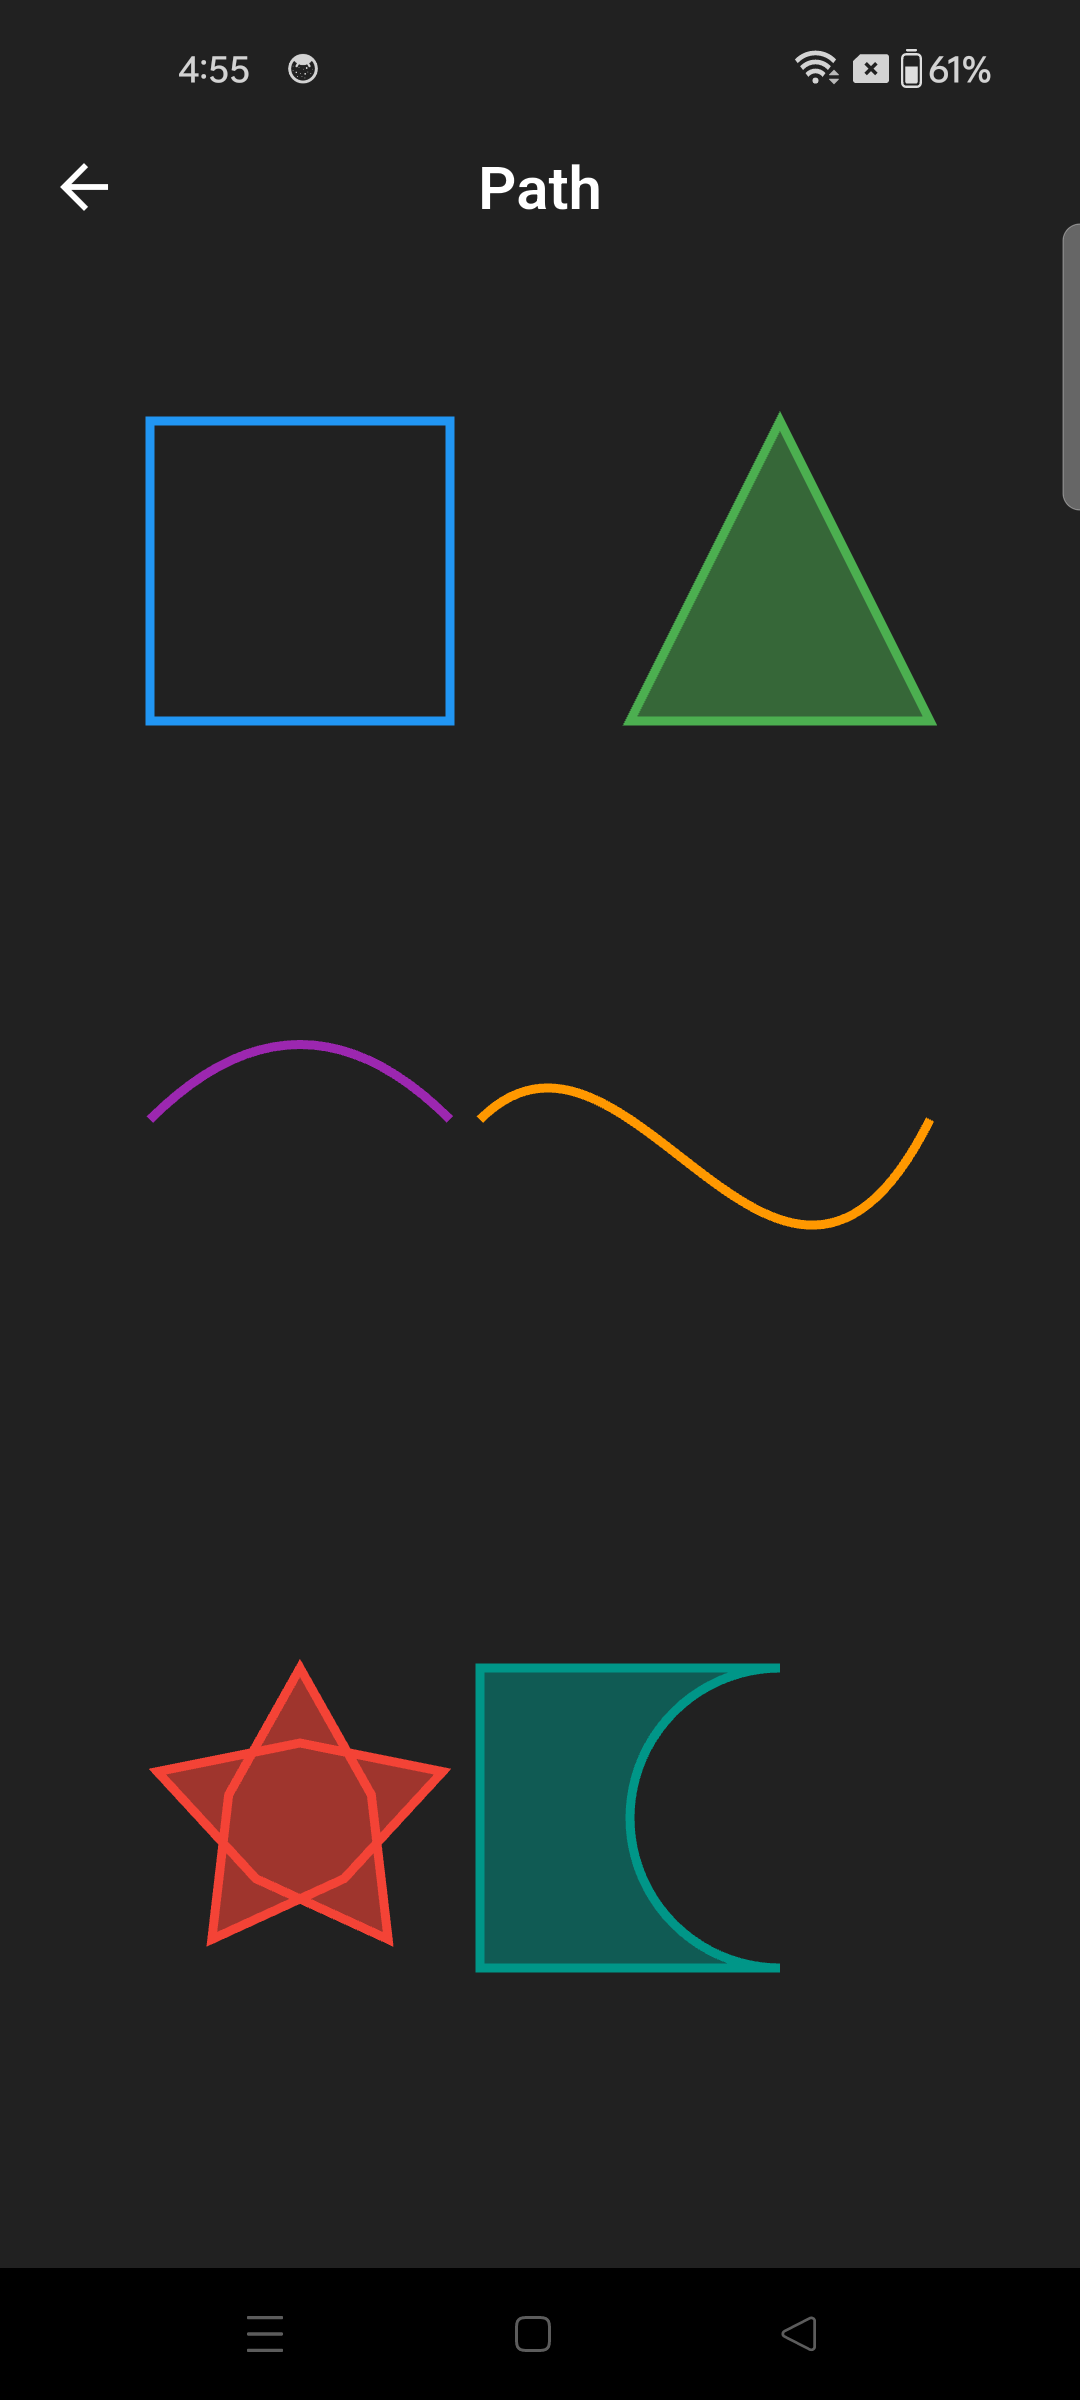
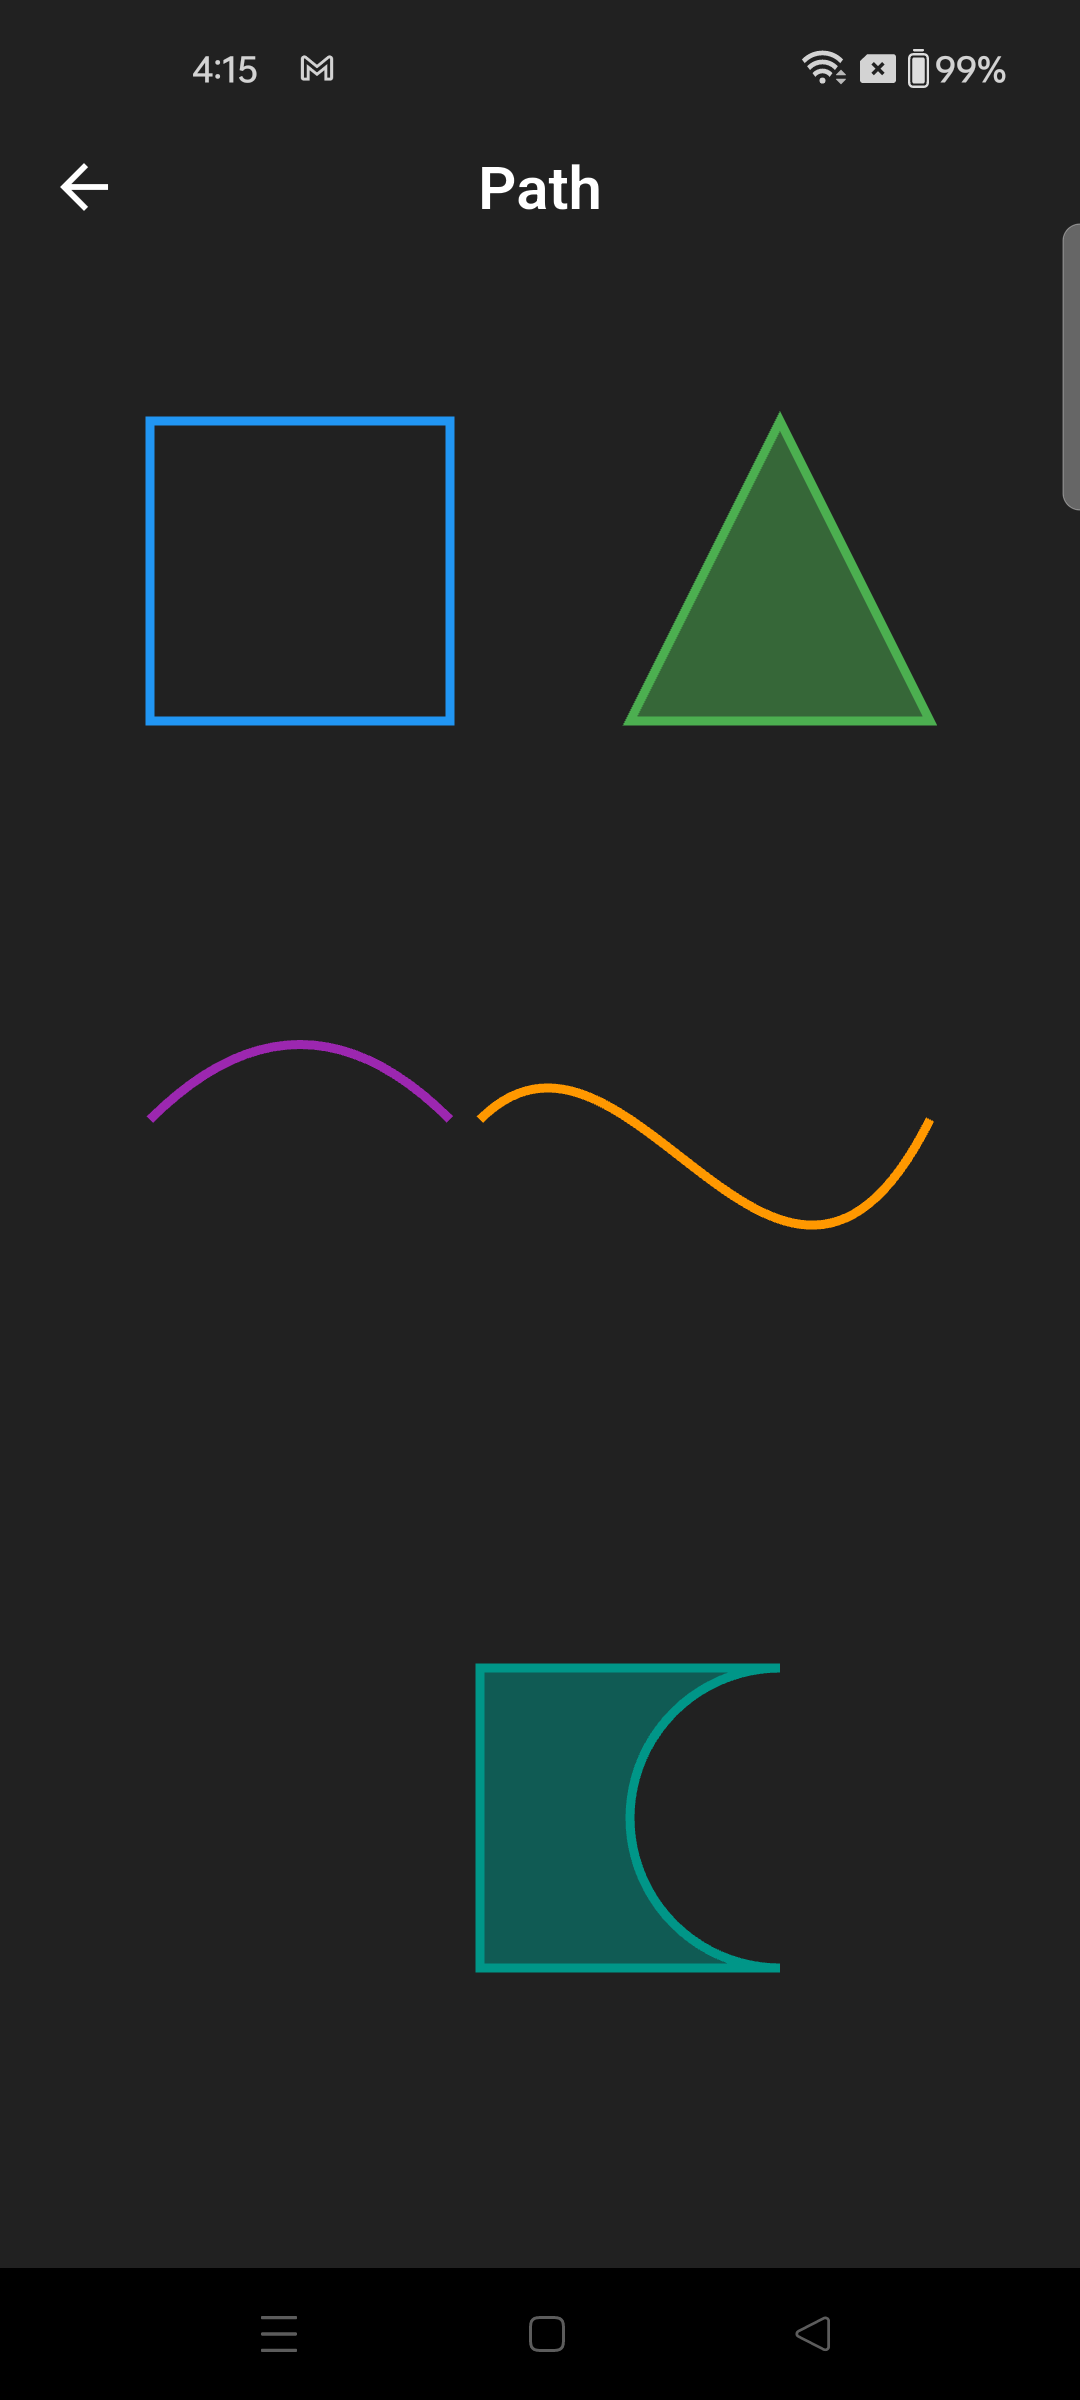
Update binary assets and refine complex shapes documentation
- Updated binary files: `.DS_Store`, `path.png`, and `points.png`.
- Revised comments and examples in `complex-shapes.html` to improve clarity and consistency in the drawing methods, including adjustments to the path numbering and enhanced explanations for the `drawPoints` method.

diff --git a/basics/complex-shapes.html b/basics/complex-shapes.html
@@ -486,31 +486,7 @@ void paint(Canvas canvas, Size size) {<br>
 &nbsp;&nbsp;&nbsp;&nbsp;);<br>
 &nbsp;&nbsp;canvas.drawPath(path4, strokePaint..color = Colors.orange);<br>
 <br>
-&nbsp;&nbsp;// 5⃣ Path - Bottom Left (Red) - Star shape<br>
-&nbsp;&nbsp;final centerX = 100.0;<br>
-&nbsp;&nbsp;final centerY = size.height - 150.0;<br>
-&nbsp;&nbsp;final outerRadius = 50.0;<br>
-&nbsp;&nbsp;final innerRadius = 25.0;<br>
-&nbsp;&nbsp;final path5 = Path();<br>
-&nbsp;&nbsp;for (int i = 0; i < 5; i++) {<br>
-&nbsp;&nbsp;&nbsp;&nbsp;final angle = (i * 4 * math.pi / 5) - math.pi / 2;<br>
-&nbsp;&nbsp;&nbsp;&nbsp;final x = centerX + outerRadius * math.cos(angle);<br>
-&nbsp;&nbsp;&nbsp;&nbsp;final y = centerY + outerRadius * math.sin(angle);<br>
-&nbsp;&nbsp;&nbsp;&nbsp;if (i == 0) {<br>
-&nbsp;&nbsp;&nbsp;&nbsp;&nbsp;&nbsp;path5.moveTo(x, y);<br>
-&nbsp;&nbsp;&nbsp;&nbsp;} else {<br>
-&nbsp;&nbsp;&nbsp;&nbsp;&nbsp;&nbsp;path5.lineTo(x, y);<br>
-&nbsp;&nbsp;&nbsp;&nbsp;}<br>
-&nbsp;&nbsp;&nbsp;&nbsp;final innerAngle = angle + 2 * math.pi / 5;<br>
-&nbsp;&nbsp;&nbsp;&nbsp;final innerX = centerX + innerRadius * math.cos(innerAngle);<br>
-&nbsp;&nbsp;&nbsp;&nbsp;final innerY = centerY + innerRadius * math.sin(innerAngle);<br>
-&nbsp;&nbsp;&nbsp;&nbsp;path5.lineTo(innerX, innerY);<br>
-&nbsp;&nbsp;}<br>
-&nbsp;&nbsp;path5.close();<br>
-&nbsp;&nbsp;canvas.drawPath(path5, fillPaint..color = Colors.red.withValues(alpha: 0.6));<br>
-&nbsp;&nbsp;canvas.drawPath(path5, strokePaint..color = Colors.red);<br>
-<br>
-&nbsp;&nbsp;// 6⃣ Path - Bottom Right (Teal) - Complex path with arc<br>
+&nbsp;&nbsp;// 5⃣ Path - Bottom Right (Teal) - Complex path with arc<br>
 &nbsp;&nbsp;final path6 = Path()<br>
 &nbsp;&nbsp;&nbsp;&nbsp;..moveTo(size.width - 200, size.height - 200)<br>
 &nbsp;&nbsp;&nbsp;&nbsp;..lineTo(size.width - 100, size.height - 200)<br>
@@ -534,191 +510,150 @@ void paint(Canvas canvas, Size size) {<br>
             </div>
 
             <h3><code>drawPoints(PointMode pointMode, List&lt;Offset&gt; points, Paint paint)</code></h3>
-            <p><strong>Purpose:</strong> Efficiently draws multiple points, lines, or polygons in one call.</p>
-            <p><strong>Parameters:</strong></p>
-            <ul>
-                <li><code>pointMode</code> - How to interpret points:
-                    <ul>
-                        <li><code>PointMode.points</code> - Draw individual points (dots)</li>
-                        <li><code>PointMode.lines</code> - Draw lines between consecutive points</li>
-                        <li><code>PointMode.polygon</code> - Draw a closed polygon</li>
-                    </ul>
-                </li>
-                <li><code>points</code> - List of points to draw</li>
-                <li><code>paint</code> - Paint object defining point/line style</li>
-            </ul>
-            <p><strong>Common uses:</strong> Scatter plots, line charts, polygons, particle effects, efficient batch
-                drawing.</p>
 
+            <p>
+                <strong>Canvas.drawPoints</strong> is used to draw <strong>multiple point-based shapes efficiently in a
+                    single draw
+                    call</strong>.
+                Instead of drawing each dot or line segment individually, Flutter batches them together, making this
+                method ideal
+                for markers, graphs, paths, and visual indicators.
+            </p>
+
+            <div class="code-block">
+                <code>
+            canvas.drawPoints(PointMode pointMode, List&lt;Offset&gt; points, Paint paint);
+                </code>
+            </div>
+
+            <h4>What each parameter means</h4>
+
+            <h4>1⃣ <code>PointMode pointMode</code></h4>
+            <p>
+                Defines <strong>how Flutter should interpret the list of points</strong>.
+            </p>
+
+            <table>
+                <thead>
+                    <tr>
+                        <th>Mode</th>
+                        <th>Meaning</th>
+                    </tr>
+                </thead>
+                <tbody>
+                    <tr>
+                        <td><code>PointMode.points</code></td>
+                        <td>Draws each <code>Offset</code> as an individual dot</td>
+                    </tr>
+                    <tr>
+                        <td><code>PointMode.lines</code></td>
+                        <td>Draws independent line segments using pairs of points</td>
+                    </tr>
+                    <tr>
+                        <td><code>PointMode.polygon</code></td>
+                        <td>Draws a connected polyline through all points</td>
+                    </tr>
+                </tbody>
+            </table>
+
+            <p><strong>Important behavior:</strong></p>
+            <ul>
+                <li><code>PointMode.points</code> → every offset is rendered as a dot</li>
+                <li><code>PointMode.lines</code> → every <strong>two offsets</strong> form one line segment</li>
+                <li><code>PointMode.polygon</code> → all offsets are connected in sequence</li>
+            </ul>
+
+            <h4>2⃣ <code>List&lt;Offset&gt; points</code></h4>
+            <p>
+                A list of coordinates in <strong>canvas space</strong>.
+                How these points are rendered depends entirely on the selected <code>PointMode</code>.
+            </p>
+
+            <h4>3⃣ <code>Paint paint</code></h4>
+            <p>
+                Controls the visual appearance of the points or lines.
+            </p>
+
+            <div class="info-box">
+                <strong>⚠ Important:</strong>
+                <code>PaintingStyle.stroke</code> is required.
+                <code>PaintingStyle.fill</code> is ignored by <code>drawPoints</code>.
+            </div>
+
+            <h4>📌 Example</h4>
             <div class="property-layout">
                 <div class="property-code">
                     <div class="code-block">
-                        <button class="copy-button" onclick="copyCode(this)" title="Copy code">
-                            <span class="copy-text">Copy</span>
-                        </button>
                         <code>
-@override<br>
-void paint(Canvas canvas, Size size) {<br>
-&nbsp;&nbsp;final paint = Paint()<br>
-&nbsp;&nbsp;&nbsp;&nbsp;..strokeWidth = 4<br>
-&nbsp;&nbsp;&nbsp;&nbsp;..strokeCap = StrokeCap.round;<br>
-<br>
-&nbsp;&nbsp;// 1⃣ Points - Top Left (Blue) - PointMode.points - Individual points<br>
-&nbsp;&nbsp;final points1 = [<br>
-&nbsp;&nbsp;&nbsp;&nbsp;const Offset(50, 50),<br>
-&nbsp;&nbsp;&nbsp;&nbsp;const Offset(100, 50),<br>
-&nbsp;&nbsp;&nbsp;&nbsp;const Offset(150, 50),<br>
-&nbsp;&nbsp;&nbsp;&nbsp;const Offset(100, 100),<br>
-&nbsp;&nbsp;&nbsp;&nbsp;const Offset(50, 100),<br>
-&nbsp;&nbsp;&nbsp;&nbsp;const Offset(150, 100),<br>
-&nbsp;&nbsp;];<br>
-&nbsp;&nbsp;canvas.drawPoints(ui.PointMode.points, points1, paint..color = Colors.blue);<br>
-<br>
-&nbsp;&nbsp;// 2⃣ Points - Top Right (Green) - PointMode.lines - Connected lines<br>
-&nbsp;&nbsp;final points2 = [<br>
-&nbsp;&nbsp;&nbsp;&nbsp;Offset(size.width - 200, 50),<br>
-&nbsp;&nbsp;&nbsp;&nbsp;Offset(size.width - 150, 100),<br>
-&nbsp;&nbsp;&nbsp;&nbsp;Offset(size.width - 100, 50),<br>
-&nbsp;&nbsp;&nbsp;&nbsp;Offset(size.width - 50, 100),<br>
-&nbsp;&nbsp;];<br>
-&nbsp;&nbsp;canvas.drawPoints(ui.PointMode.lines, points2, paint..color = Colors.green);<br>
-<br>
-&nbsp;&nbsp;// 3⃣ Points - Center Left (Purple) - PointMode.polygon - Closed polygon<br>
-&nbsp;&nbsp;final points3 = [<br>
-&nbsp;&nbsp;&nbsp;&nbsp;Offset(50, size.height / 2 - 60),<br>
-&nbsp;&nbsp;&nbsp;&nbsp;Offset(100, size.height / 2 - 100),<br>
-&nbsp;&nbsp;&nbsp;&nbsp;Offset(150, size.height / 2 - 60),<br>
-&nbsp;&nbsp;&nbsp;&nbsp;Offset(150, size.height / 2 + 40),<br>
-&nbsp;&nbsp;&nbsp;&nbsp;Offset(50, size.height / 2 + 40),<br>
-&nbsp;&nbsp;];<br>
-&nbsp;&nbsp;canvas.drawPoints(ui.PointMode.polygon, points3, paint..color = Colors.purple);<br>
-<br>
-&nbsp;&nbsp;// 4⃣ Points - Center Right (Orange) - PointMode.points with different sizes<br>
-&nbsp;&nbsp;final centerX = size.width - 125.0;<br>
-&nbsp;&nbsp;final centerY = size.height / 2;<br>
-&nbsp;&nbsp;final points4 = &lt;Offset&gt;[];<br>
-&nbsp;&nbsp;for (int i = 0; i &lt; 8; i++) {<br>
-&nbsp;&nbsp;&nbsp;&nbsp;final angle = (i * 2 * math.pi / 8) - math.pi / 2;<br>
-&nbsp;&nbsp;&nbsp;&nbsp;final radius = 40.0;<br>
-&nbsp;&nbsp;&nbsp;&nbsp;points4.add(Offset(centerX + radius * math.cos(angle), centerY + radius * math.sin(angle)));<br>
-&nbsp;&nbsp;}<br>
-&nbsp;&nbsp;canvas.drawPoints(ui.PointMode.points, points4, paint..color = Colors.orange);<br>
-<br>
-&nbsp;&nbsp;// 5⃣ Points - Bottom Left (Red) - PointMode.lines creating a wave<br>
-&nbsp;&nbsp;final points5 = &lt;Offset&gt;[];<br>
-&nbsp;&nbsp;final startX = 50.0;<br>
-&nbsp;&nbsp;final startY = size.height - 150.0;<br>
-&nbsp;&nbsp;for (int i = 0; i &lt;= 20; i++) {<br>
-&nbsp;&nbsp;&nbsp;&nbsp;final x = startX + (i * 6.0);<br>
-&nbsp;&nbsp;&nbsp;&nbsp;final y = startY + 30 * math.sin(i * 0.5);<br>
-&nbsp;&nbsp;&nbsp;&nbsp;points5.add(Offset(x, y));<br>
-&nbsp;&nbsp;}<br>
-&nbsp;&nbsp;canvas.drawPoints(ui.PointMode.lines, points5, paint..color = Colors.red);<br>
-<br>
-&nbsp;&nbsp;// 6⃣ Points - Bottom Right (Teal) - PointMode.polygon creating a star<br>
-&nbsp;&nbsp;final centerX2 = size.width - 125.0;<br>
-&nbsp;&nbsp;final centerY2 = size.height - 150.0;<br>
-&nbsp;&nbsp;final outerRadius = 50.0;<br>
-&nbsp;&nbsp;final innerRadius = 25.0;<br>
-&nbsp;&nbsp;final points6 = &lt;Offset&gt;[];<br>
-&nbsp;&nbsp;for (int i = 0; i &lt; 10; i++) {<br>
-&nbsp;&nbsp;&nbsp;&nbsp;final angle = (i * math.pi / 5) - math.pi / 2;<br>
-&nbsp;&nbsp;&nbsp;&nbsp;final radius = i.isEven ? outerRadius : innerRadius;<br>
-&nbsp;&nbsp;&nbsp;&nbsp;points6.add(Offset(centerX2 + radius * math.cos(angle), centerY2 + radius * math.sin(angle)));<br>
-&nbsp;&nbsp;}<br>
-&nbsp;&nbsp;canvas.drawPoints(ui.PointMode.polygon, points6, paint..color = Colors.teal);<br>
-}<br>
-                        </code>
+            @override<br>
+            void paint(Canvas canvas, Size size) {<br>
+            &nbsp;&nbsp;// 🔴 POINTS MODE (individual dots)<br>
+            &nbsp;&nbsp;final pointPaint = Paint()<br>
+            &nbsp;&nbsp;&nbsp;&nbsp;..color = Colors.red<br>
+            &nbsp;&nbsp;&nbsp;&nbsp;..strokeWidth = 10<br>
+            &nbsp;&nbsp;&nbsp;&nbsp;..strokeCap = StrokeCap.round<br>
+            &nbsp;&nbsp;&nbsp;&nbsp;..style = PaintingStyle.stroke;<br>
+            <br>
+            &nbsp;&nbsp;final dotPoints = [<br>
+            &nbsp;&nbsp;&nbsp;&nbsp;const Offset(60, 60),<br>
+            &nbsp;&nbsp;&nbsp;&nbsp;const Offset(100, 80),<br>
+            &nbsp;&nbsp;&nbsp;&nbsp;const Offset(140, 60),<br>
+            &nbsp;&nbsp;&nbsp;&nbsp;const Offset(180, 90),<br>
+            &nbsp;&nbsp;];<br>
+            <br>
+            &nbsp;&nbsp;canvas.drawPoints(ui.PointMode.points, dotPoints, pointPaint);<br>
+            <br>
+            &nbsp;&nbsp;// 🔵 LINES MODE (independent segments)<br>
+            &nbsp;&nbsp;final linePaint = Paint()<br>
+            &nbsp;&nbsp;&nbsp;&nbsp;..color = Colors.blue<br>
+            &nbsp;&nbsp;&nbsp;&nbsp;..strokeWidth = 4<br>
+            &nbsp;&nbsp;&nbsp;&nbsp;..style = PaintingStyle.stroke;<br>
+            <br>
+            &nbsp;&nbsp;final linePoints = [<br>
+            &nbsp;&nbsp;&nbsp;&nbsp;const Offset(40, 150),<br>
+            &nbsp;&nbsp;&nbsp;&nbsp;const Offset(120, 150),<br>
+            <br>
+            &nbsp;&nbsp;&nbsp;&nbsp;const Offset(160, 130),<br>
+            &nbsp;&nbsp;&nbsp;&nbsp;const Offset(220, 180),<br>
+            &nbsp;&nbsp;];<br>
+            <br>
+            &nbsp;&nbsp;canvas.drawPoints(ui.PointMode.lines, linePoints, linePaint);<br>
+            <br>
+            &nbsp;&nbsp;// 🟢 POLYGON MODE (connected polyline)<br>
+            &nbsp;&nbsp;final polygonPaint = Paint()<br>
+            &nbsp;&nbsp;&nbsp;&nbsp;..color = Colors.green<br>
+            &nbsp;&nbsp;&nbsp;&nbsp;..strokeWidth = 3<br>
+            &nbsp;&nbsp;&nbsp;&nbsp;..style = PaintingStyle.stroke;<br>
+            <br>
+            &nbsp;&nbsp;final polygonPoints = [<br>
+            &nbsp;&nbsp;&nbsp;&nbsp;Offset(80, 260),<br>
+            &nbsp;&nbsp;&nbsp;&nbsp;Offset(140, 230),<br>
+            &nbsp;&nbsp;&nbsp;&nbsp;Offset(200, 260),<br>
+            &nbsp;&nbsp;&nbsp;&nbsp;Offset(170, 300),<br>
+            &nbsp;&nbsp;&nbsp;&nbsp;Offset(110, 300),<br>
+            &nbsp;&nbsp;];<br>
+            <br>
+            &nbsp;&nbsp;canvas.drawPoints(ui.PointMode.polygon, polygonPoints, polygonPaint);<br>
+            }<br>
+                </code>
+
                     </div>
                 </div>
-
                 <div class="property-image">
-                    <img src="../assets/points.png" alt="Flutter Canvas drawPoints visual example">
-                    <p class="image-caption">Visual guide showing how <code>drawPoints()</code> draws points, lines, and
-                        polygons based on PointMode. Examples include individual points (blue grid, orange circle),
-                        connected lines (green segments, red wave), and closed polygons (purple house, teal star).</p>
+                    <img src="../assets/points.png" alt="Flutter Canvas drawPath visual example">
+                    <p class="image-caption">Visual guide showing how <code>drawPath()</code> draws custom shapes
+                        defined by Path objects. Examples include simple polygons (blue square), filled shapes
+                        (green
+                        triangle), curves (purple quadratic, orange cubic), complex shapes (red star), and paths
+                        with
+                        arcs (teal).</p>
                 </div>
             </div>
+
         </section>
 
         <section class="section">
             <h2>🖼 Other Drawing Methods</h2>
-
-            <h3><code>drawImageRect(Image image, Rect src, Rect dst, Paint paint)</code></h3>
-            <p><strong>Purpose:</strong> Draws a portion of an image (defined by source rectangle) scaled to fit a
-                destination rectangle on the canvas.</p>
-            <p><strong>Parameters:</strong></p>
-            <ul>
-                <li><code>image</code> - The Image object to draw (loaded from assets, network, or memory)</li>
-                <li><code>src</code> - Source rectangle defining which portion of the image to draw (in image
-                    coordinates)</li>
-                <li><code>dst</code> - Destination rectangle defining where and how large to draw the image (in canvas
-                    coordinates)</li>
-                <li><code>paint</code> - Paint object (optional, can be null) for color filtering or blending</li>
-            </ul>
-            <p><strong>Common uses:</strong> Scaling images, cropping images, fitting images while maintaining aspect
-                ratio, displaying sprites from sprite sheets.</p>
-
-            <div class="code-block">
-                <button class="copy-button" onclick="copyCode(this)" title="Copy code">
-                    <span class="copy-text">Copy</span>
-                </button>
-                <code>
-final ui.Image image;<br>
-<br>
-ImageCP(this.image);<br>
-<br>
-@override<br>
-void paint(Canvas canvas, Size size) {<br>
-&nbsp;&nbsp;final paint = Paint();<br>
-<br>
-&nbsp;&nbsp;// Calculate aspect ratios<br>
-&nbsp;&nbsp;final imageAspectRatio = image.width / image.height;<br>
-&nbsp;&nbsp;final canvasAspectRatio = size.width / size.height;<br>
-<br>
-&nbsp;&nbsp;// Calculate destination rectangle to fit image while maintaining aspect ratio<br>
-&nbsp;&nbsp;double dstWidth, dstHeight;<br>
-&nbsp;&nbsp;double dstX, dstY;<br>
-<br>
-&nbsp;&nbsp;if (imageAspectRatio &gt; canvasAspectRatio) {<br>
-&nbsp;&nbsp;&nbsp;&nbsp;// Image is wider - fit to width<br>
-&nbsp;&nbsp;&nbsp;&nbsp;dstWidth = size.width;<br>
-&nbsp;&nbsp;&nbsp;&nbsp;dstHeight = size.width / imageAspectRatio;<br>
-&nbsp;&nbsp;&nbsp;&nbsp;dstX = 0;<br>
-&nbsp;&nbsp;&nbsp;&nbsp;dstY = (size.height - dstHeight) / 2;<br>
-&nbsp;&nbsp;} else {<br>
-&nbsp;&nbsp;&nbsp;&nbsp;// Image is taller - fit to height<br>
-&nbsp;&nbsp;&nbsp;&nbsp;dstHeight = size.height;<br>
-&nbsp;&nbsp;&nbsp;&nbsp;dstWidth = size.height * imageAspectRatio;<br>
-&nbsp;&nbsp;&nbsp;&nbsp;dstX = (size.width - dstWidth) / 2;<br>
-&nbsp;&nbsp;&nbsp;&nbsp;dstY = 0;<br>
-&nbsp;&nbsp;}<br>
-<br>
-&nbsp;&nbsp;// Source rectangle (entire image)<br>
-&nbsp;&nbsp;final srcRect = Rect.fromLTWH(0, 0, image.width.toDouble(), image.height.toDouble());<br>
-&nbsp;&nbsp;// Destination rectangle (fitted and centered)<br>
-&nbsp;&nbsp;final dstRect = Rect.fromLTWH(dstX, dstY, dstWidth, dstHeight);<br>
-<br>
-&nbsp;&nbsp;// Use drawImageRect() to scale the image while maintaining aspect ratio<br>
-&nbsp;&nbsp;canvas.drawImageRect(image, srcRect, dstRect, paint);<br>
-}<br>
-                </code>
-            </div>
-
-            <div class="info-box">
-                <strong>💡 Important Notes:</strong>
-                <ul>
-                    <li>Images must be loaded asynchronously before drawing</li>
-                    <li><code>src</code> rectangle defines which part of the image to use (use full image rect to draw
-                        entire image)</li>
-                    <li><code>dst</code> rectangle defines where and how large to draw (can scale, crop, or transform)
-                    </li>
-                    <li>This method is ideal for scaling images while maintaining aspect ratio</li>
-                    <li>Always dispose images after use to free memory</li>
-                    <li>For better performance with multiple images, consider using <code>drawAtlas()</code></li>
-                </ul>
-            </div>
-
             <h3><code>drawParagraph(Paragraph paragraph, Offset offset)</code></h3>
             <p><strong>Purpose:</strong> Draws text on the canvas using a Paragraph object.</p>
             <p><strong>Parameters:</strong></p>
